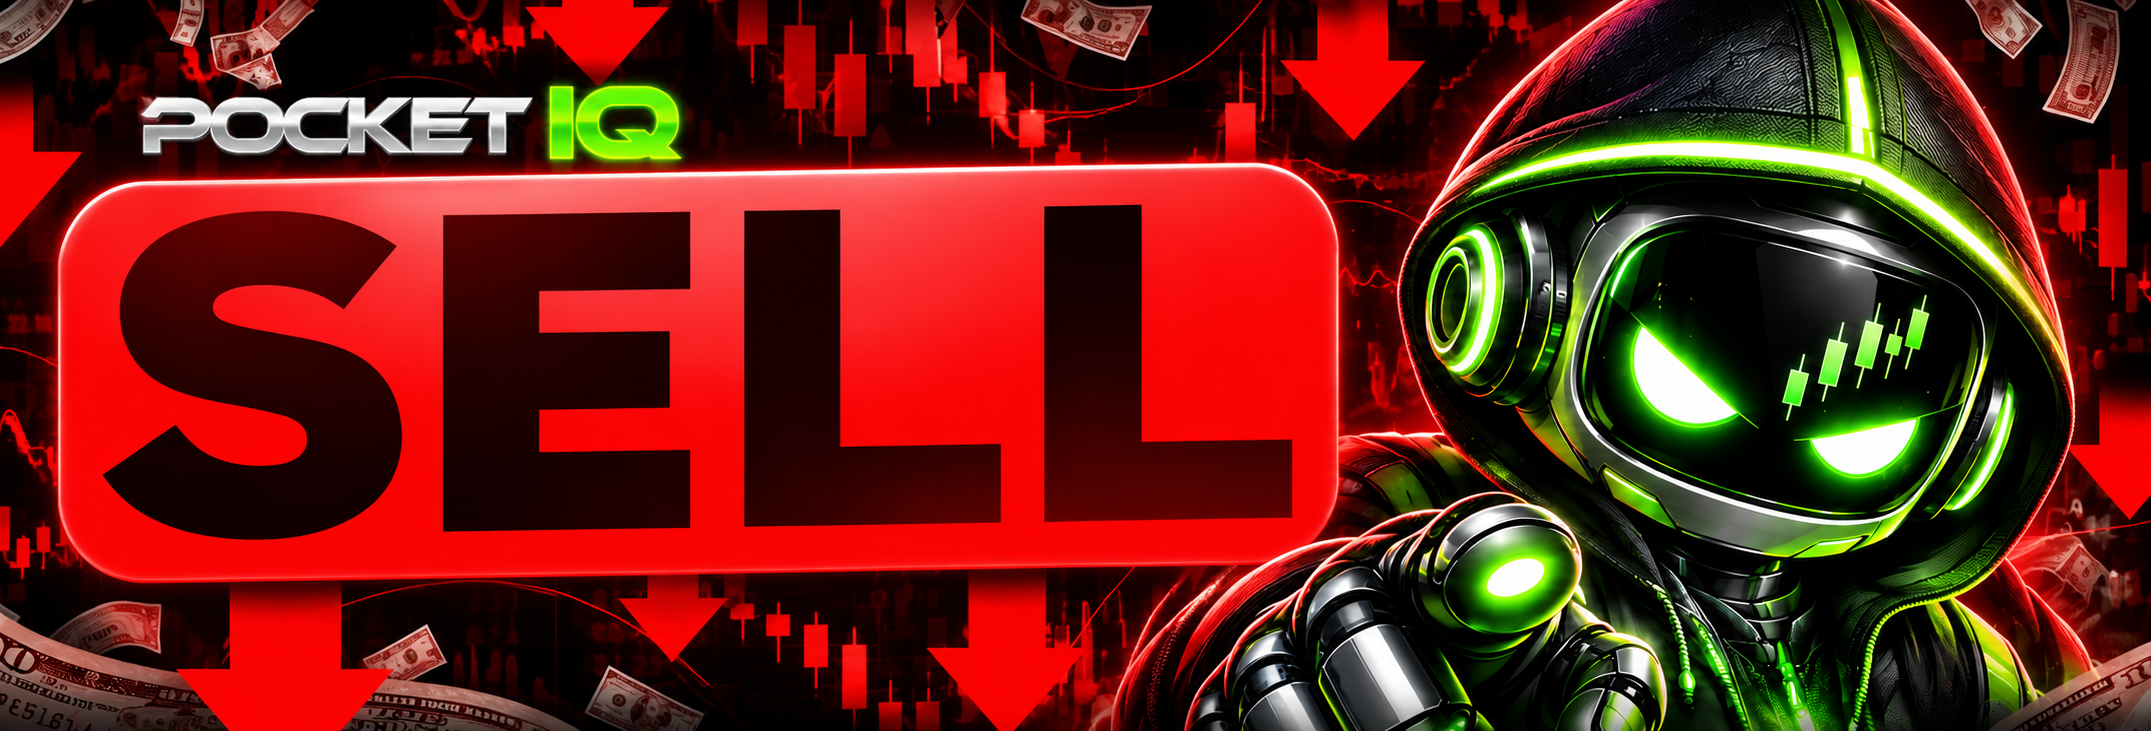
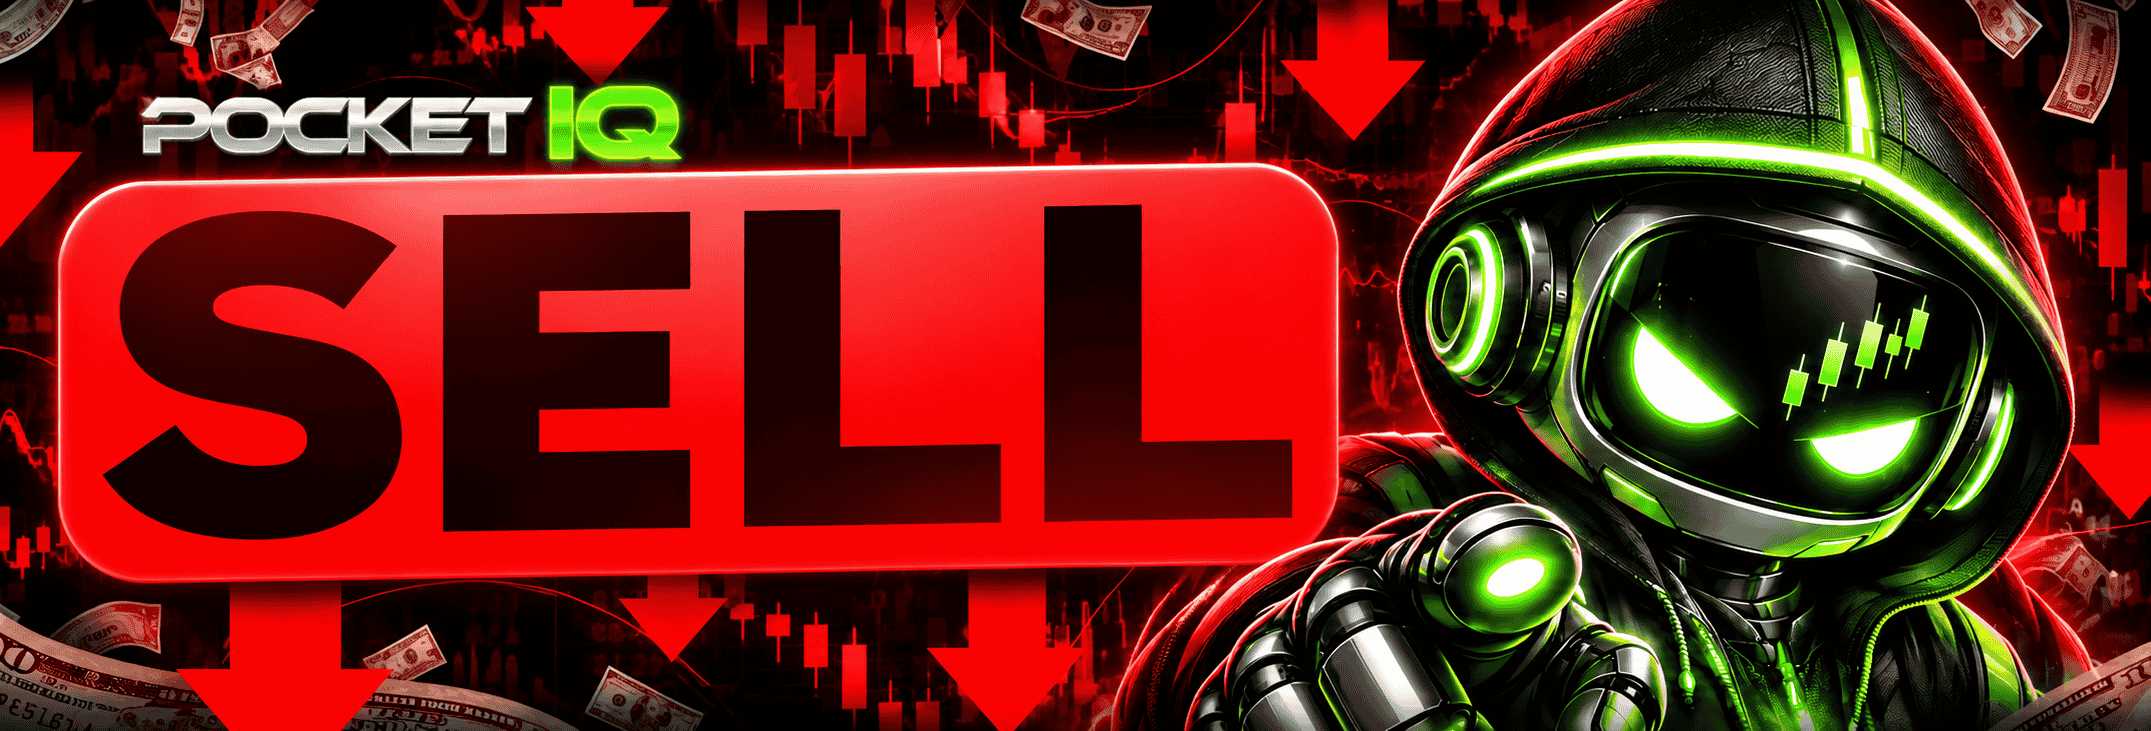
Use compressed owner images for signals and asset selection (#42)

diff --git a/config.py b/config.py
@@ -823,7 +823,7 @@ SCREENS = {
     # All emoji here are plain unicode by request, no pe().
     # TODO: S35 and S40 are intentionally absent - the rows jump 30 -> 45.
     # There is no assets/test_menu.jpg and there never was: "test_menu" is the
-    # screen key, and the image it renders is assets/expiration_time.jpg. This is
+    # screen key, and the image it renders is assets/expiration_time.png. This is
     # the only screen that shows it - tapping an M button here leads straight to
     # the waiting screen, which is text-only.
     "test_menu": {

diff --git a/bot.py b/bot.py
@@ -115,7 +115,8 @@ def asset_path(key, ext):
         ext = 'png'
     elif key == journey.REGISTER_PHOTO and ext == 'jpg':
         ext = 'png'
-    elif key in market_signals.DIRECTION_BANNERS.values() and ext == 'jpg':
+    elif ext == 'jpg' and key in (*market_signals.DIRECTION_BANNERS.values(),
+                                  'trading_type', 'asset_category', 'currency_pair', 'expiration_time'):
         ext = 'png'
     return "assets/" + key + "." + ext
 
